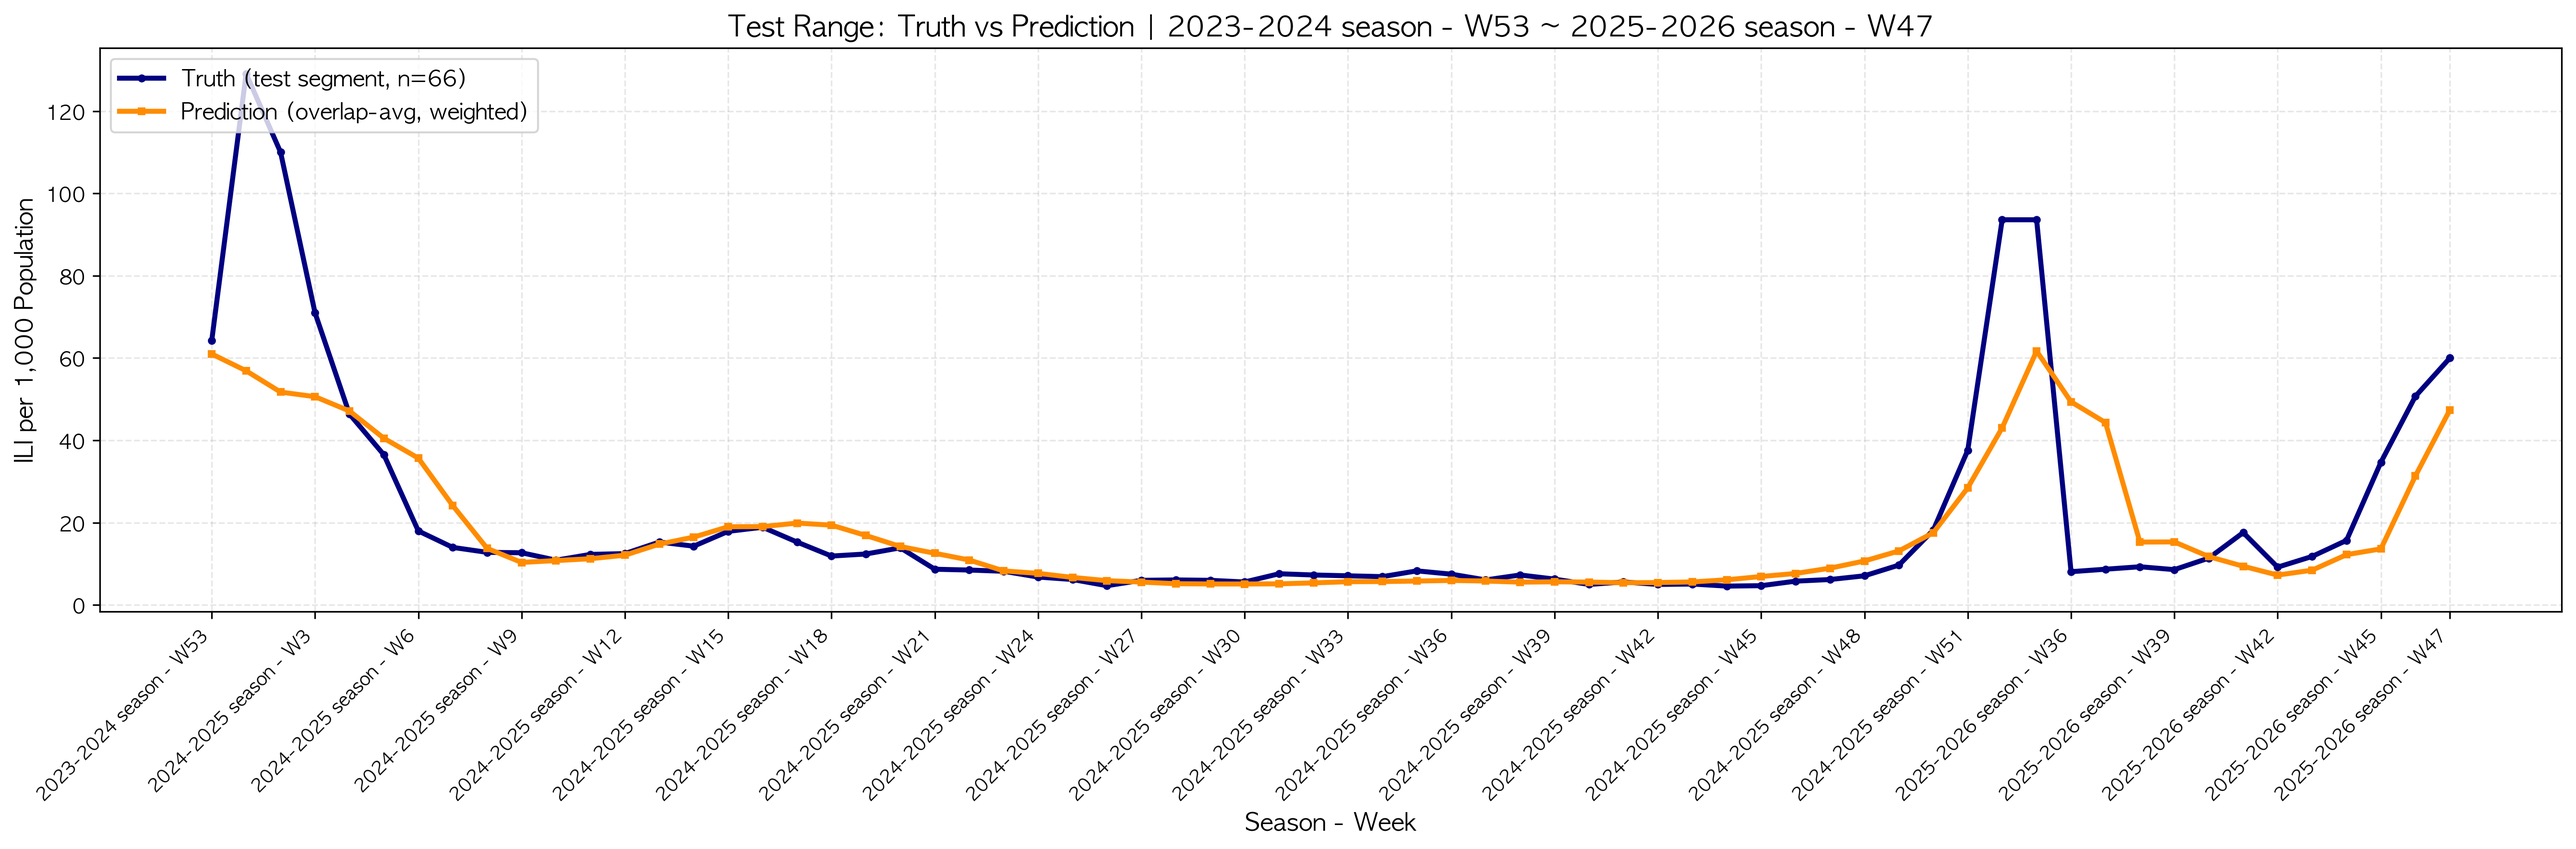
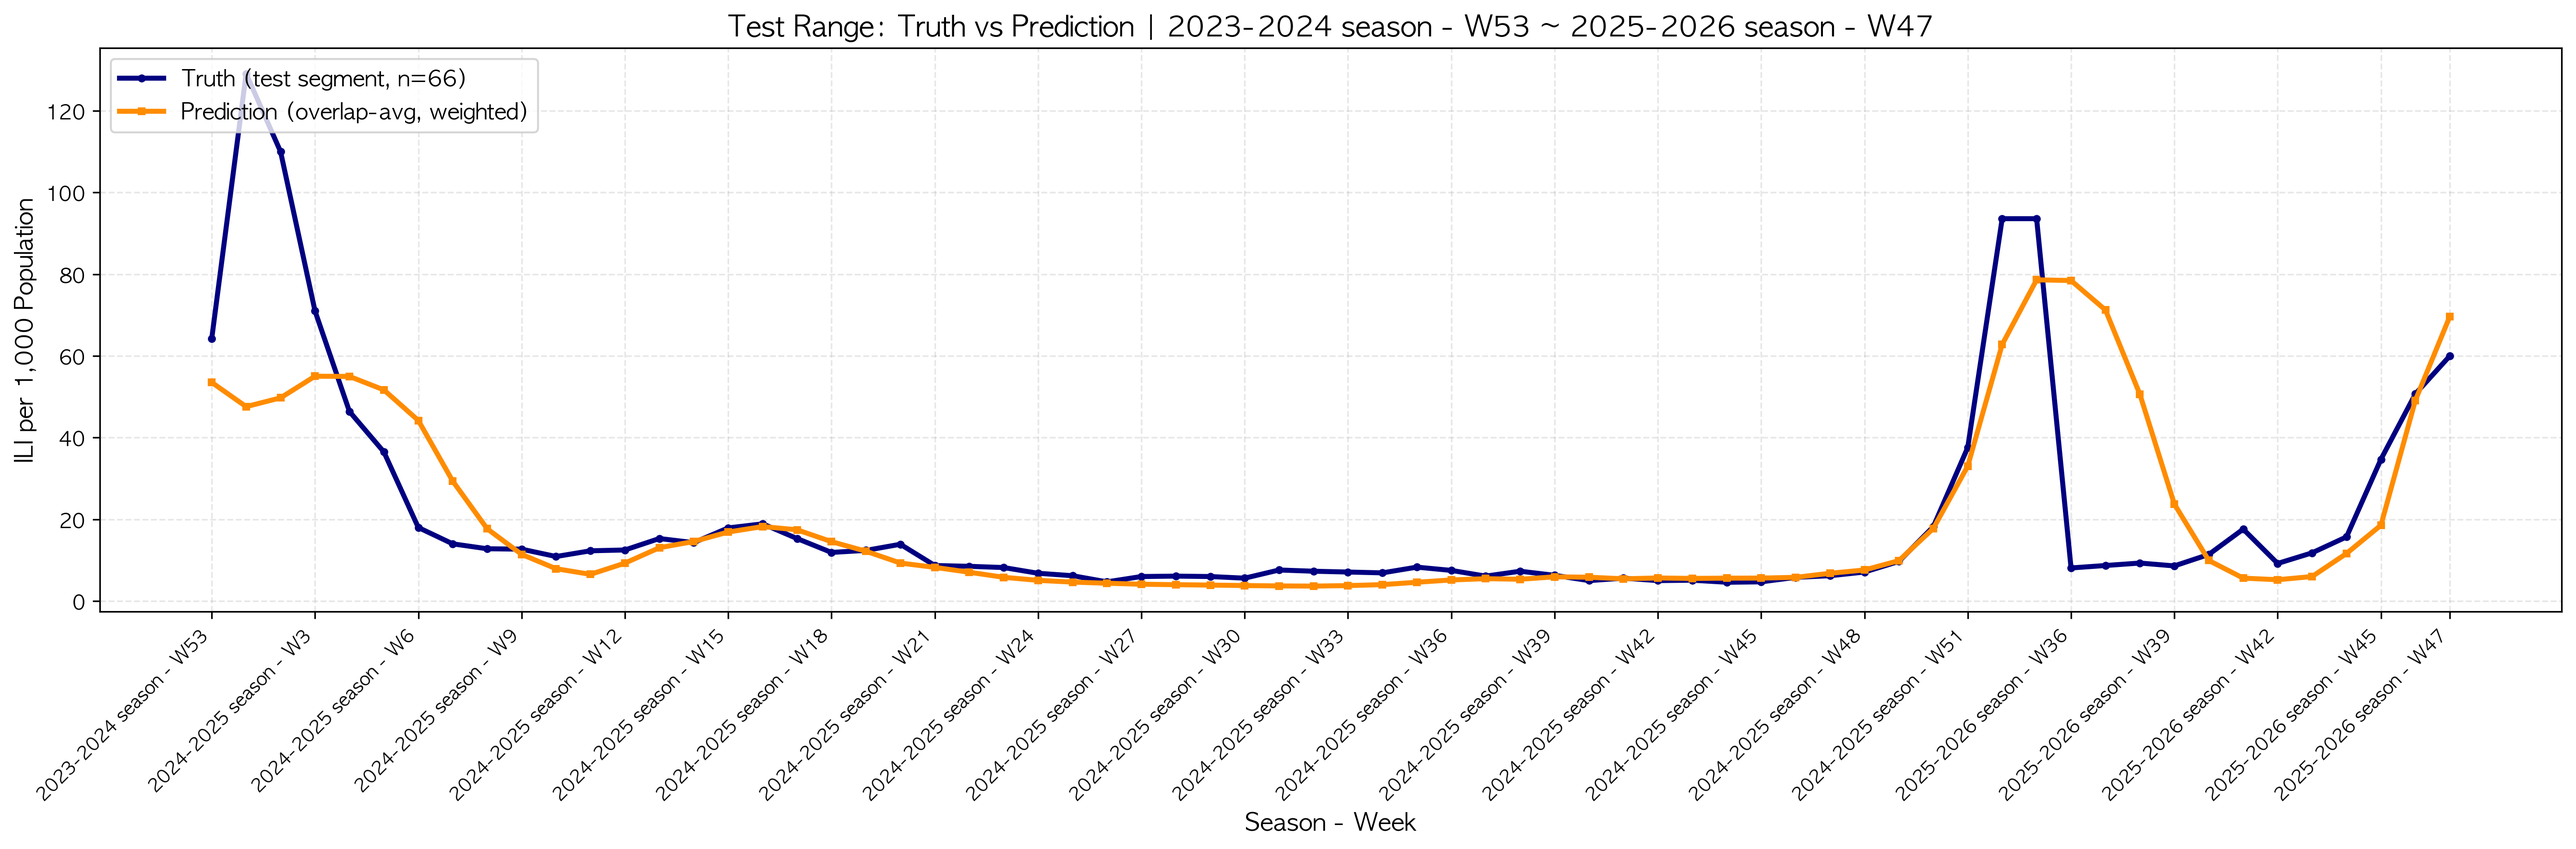
recent model

diff --git a/patchTST.py b/patchTST.py
@@ -675,6 +675,17 @@ def load_and_prepare(df: pd.DataFrame, use_exog: str = "auto") -> Tuple[np.ndarr
     X = df[feat_names].to_numpy(dtype=float)
     y = df["ili"].to_numpy(dtype=float)
     
+    # 🔍 vaccine_rate 진단
+    if 'vaccine_rate' in feat_names:
+        vax_idx = feat_names.index('vaccine_rate')
+        vax_data = X[:, vax_idx]
+        print(f"\n🔬 vaccine_rate 데이터 분석:")
+        print(f"   - 범위: [{vax_data.min():.4f}, {vax_data.max():.4f}]")
+        print(f"   - 평균: {vax_data.mean():.4f}, 표준편차: {vax_data.std():.4f}")
+        print(f"   - 변동계수(CV): {vax_data.std()/vax_data.mean():.4f}")
+        print(f"   - 0인 값: {(vax_data == 0).sum()}개 / {len(vax_data)}개")
+        print(f"   - 상관계수 (vaccine_rate vs ili): {np.corrcoef(vax_data, y)[0,1]:.4f}")
+    
     print(f"\n✅ 최종 데이터 준비 완료:")
     print(f"   - X shape: {X.shape}")
     print(f"   - y shape: {y.shape}")
@@ -956,6 +967,15 @@ def train_and_eval(X: np.ndarray, y: np.ndarray, labels: list, feat_names: list)
     X_tr, X_va, X_te = X[s0:e0], X[s1:e1], X[s2:e2]
     y_tr, y_va, y_te = y[s0:e0], y[s1:e1], y[s2:e2]
     lab_tr, lab_va, lab_te = labels[s0:e0], labels[s1:e1], labels[s2:e2]
+
+    # ==== 데이터 분할 진단 ====
+    print(f"\n📊 데이터 분할 정보:")
+    print(f"   Train: {lab_tr[0]} ~ {lab_tr[-1]} ({len(y_tr)}개)")
+    print(f"   Val:   {lab_va[0]} ~ {lab_va[-1]} ({len(y_va)}개)")
+    print(f"   Test:  {lab_te[0]} ~ {lab_te[-1]} ({len(y_te)}개)")
+    print(f"   Train y 범위: [{y_tr.min():.2f}, {y_tr.max():.2f}], 평균: {y_tr.mean():.2f}")
+    print(f"   Val   y 범위: [{y_va.min():.2f}, {y_va.max():.2f}], 평균: {y_va.mean():.2f}")
+    print(f"   Test  y 범위: [{y_te.min():.2f}, {y_te.max():.2f}], 평균: {y_te.mean():.2f}")
 
     # ==== Scaling ====
     # Target scaler
@@ -1280,15 +1300,14 @@ if __name__ == "__main__":
     # =========================
 # Feature Importance utils
 # =========================
-def _eval_mae_on_split(model, X_split_sc, y_split_sc, scaler_y, feat_names,
+def _eval_mse_on_split(model, X_split_sc, y_split_sc, scaler_y, feat_names,
                        batch_size=BATCH_SIZE):
     """
-    Feature Importance용 MAE 계산
-    → 반드시 현재 model.head 출력 차원(pred_len)을 기준으로 계산
+    Feature Importance용 MSE 계산 (Perturbation-Based Method)
     """
     model.eval()
 
-    # 🔑 실제 모델의 pred_len을 사용
+    # 실제 모델의 pred_len을 사용
     pred_len = model.head[-1].out_features
     seq_len  = SEQ_LEN
     patch_len = PATCH_LEN
@@ -1303,7 +1322,7 @@ def _eval_mae_on_split(model, X_split_sc, y_split_sc, scaler_y, feat_names,
     )
     dl = DataLoader(ds, batch_size=batch_size, shuffle=False)
 
-    mae_sum, n = 0.0, 0
+    mse_sum, n = 0.0, 0
     with torch.no_grad():
         for Xb, yb, _ in dl:
             Xb = Xb.to(DEVICE)
@@ -1311,14 +1330,24 @@ def _eval_mae_on_split(model, X_split_sc, y_split_sc, scaler_y, feat_names,
 
             pred = model(Xb)  # (B, H_model)
 
-            # 🔒 pred / yb shape mismatch 방지
+            # pred / yb shape mismatch 방지
             H = pred.shape[1]
             yb = yb[:, :H]
 
-            mae_sum += batch_mae_in_original_units(pred, yb, scaler_y) * yb.size(0)
+            # 원래 스케일로 변환
+            pred_np = pred.cpu().numpy()
+            yb_np = yb.cpu().numpy()
+            
+            # scaler_y가 2D 입력을 요구하면 reshape
+            pred_orig = scaler_y.inverse_transform(pred_np.reshape(-1, 1)).flatten()[:H]
+            yb_orig = scaler_y.inverse_transform(yb_np.reshape(-1, 1)).flatten()[:H]
+            
+            # MSE 계산
+            mse = np.mean((pred_orig - yb_orig) ** 2)
+            mse_sum += mse * yb.size(0)
             n += yb.size(0)
 
-    return float(mae_sum / max(1, n))
+    return float(mse_sum / max(1, n))
 
 
 def compute_feature_importance(model, 
@@ -1327,13 +1356,16 @@ def compute_feature_importance(model,
                                scaler_y=None, feat_names=None, 
                                random_state=42):
     """
-    퍼뮤테이션(열 섞기) 중요도와 평균 대체(그 특징을 평균으로 고정) 중요도를 계산.
-    반환: 중요도 DataFrame (ΔMAE가 클수록 중요)
+    Perturbation-Based Feature Importance 계산
+    
+    방법:
+    1. 각 변수를 마스킹(평균값으로 대체)
+    2. MSE 증가량 측정: Importance(i) = MSE_masked(i) - MSE_original
+    3. 중요도 정규화
     
     Note: 'ili'는 타겟 변수이므로 Feature Importance 계산에서 제외됩니다.
     """
     assert scaler_y is not None and feat_names is not None
-    rng = np.random.RandomState(random_state)
 
     # --- 'ili' 제외: 타겟 변수는 feature importance 계산에서 제외 ---
     feat_indices = [i for i, name in enumerate(feat_names) if name != 'ili']
@@ -1343,51 +1375,61 @@ def compute_feature_importance(model,
         print(f"[FI] 'ili' 특징 제외됨 (타겟 변수)")
         print(f"[FI] Feature Importance 계산 대상: {len(filtered_feat_names)}개 특징")
 
-    # --- 기준선(baseline MAE) ---
-    baseline_val = _eval_mae_on_split(model, X_va_sc, y_va_sc, scaler_y, feat_names)
-    print(f"[FI] Baseline Val MAE: {baseline_val:.6f}")
+    # --- Step 1: Baseline MSE (원본 데이터) ---
+    print(f"[FI] Computing Baseline MSE...")
+    mse_original_val = _eval_mse_on_split(model, X_va_sc, y_va_sc, scaler_y, feat_names)
+    print(f"[FI] Baseline Val MSE: {mse_original_val:.6f}")
 
-    baseline_tst = None
+    mse_original_tst = None
     if X_te_sc is not None and y_te_sc is not None:
-        baseline_tst = _eval_mae_on_split(model, X_te_sc, y_te_sc, scaler_y, feat_names)
-        print(f"[FI] Baseline Test MAE: {baseline_tst:.6f}")
+        mse_original_tst = _eval_mse_on_split(model, X_te_sc, y_te_sc, scaler_y, feat_names)
+        print(f"[FI] Baseline Test MSE: {mse_original_tst:.6f}")
 
-    perm_deltas_val, mean_deltas_val = [], []
-    perm_deltas_tst, mean_deltas_tst = [], []
+    # --- Step 2: 각 변수를 마스킹하여 MSE 증가량 측정 ---
+    print(f"[FI] Computing Perturbation Importance...")
+    importance_val = []
+    importance_tst = []
 
-    # 'ili'를 제외한 특징들에 대해서만 계산
     for j in feat_indices:
         name = feat_names[j]
         
-        # ① 퍼뮤테이션(열 섞기)
-        Xp = X_va_sc.copy()
-        col = Xp[:, j].copy()
-        rng.shuffle(col)
-        Xp[:, j] = col
-        mae_perm_val = _eval_mae_on_split(model, Xp, y_va_sc, scaler_y, feat_names)
-        perm_deltas_val.append(mae_perm_val - baseline_val)
+        # Validation set: 해당 피처를 평균값으로 마스킹
+        X_masked_val = X_va_sc.copy()
+        X_masked_val[:, j] = X_va_sc[:, j].mean()
+        
+        mse_masked_val = _eval_mse_on_split(model, X_masked_val, y_va_sc, scaler_y, feat_names)
+        delta_mse_val = mse_masked_val - mse_original_val
+        importance_val.append(delta_mse_val)
+        
+        print(f"  - {name}: ΔMSE={delta_mse_val:.6f}")
 
-        # ② 평균 대체(특징 제거 효과)
-        Xz = X_va_sc.copy()
-        Xz[:, j] = X_va_sc[:, j].mean()
-        mae_mean_val = _eval_mae_on_split(model, Xz, y_va_sc, scaler_y, feat_names)
-        mean_deltas_val.append(mae_mean_val - baseline_val)
-
+        # Test set (optional)
         if X_te_sc is not None and y_te_sc is not None:
-            Xp_te = X_te_sc.copy()
-            col_te = Xp_te[:, j].copy()
-            rng.shuffle(col_te)
-            Xp_te[:, j] = col_te
-            mae_perm_tst = _eval_mae_on_split(model, Xp_te, y_te_sc, scaler_y, feat_names)
-            perm_deltas_tst.append(mae_perm_tst - baseline_tst)
+            X_masked_tst = X_te_sc.copy()
+            X_masked_tst[:, j] = X_te_sc[:, j].mean()
+            
+            mse_masked_tst = _eval_mse_on_split(model, X_masked_tst, y_te_sc, scaler_y, feat_names)
+            delta_mse_tst = mse_masked_tst - mse_original_tst
+            importance_tst.append(delta_mse_tst)
 
-            Xz_te = X_te_sc.copy()
-            Xz_te[:, j] = X_te_sc[:, j].mean()
-            mae_mean_tst = _eval_mae_on_split(model, Xz_te, y_te_sc, scaler_y, feat_names)
-            mean_deltas_tst.append(mae_mean_tst - baseline_tst)
+    # --- Step 3: Normalization ---
+    importance_val = np.array(importance_val)
+    sum_importance_val = np.abs(importance_val).sum()
+    if sum_importance_val > 0:
+        importance_norm_val = importance_val / sum_importance_val
+    else:
+        importance_norm_val = np.zeros_like(importance_val)
 
-    # DataFrame 생성
-    # 내부명 → 한글명 매핑 (column_mapping의 value→key 역전)
+    importance_norm_tst = None
+    if importance_tst:
+        importance_tst = np.array(importance_tst)
+        sum_importance_tst = np.abs(importance_tst).sum()
+        if sum_importance_tst > 0:
+            importance_norm_tst = importance_tst / sum_importance_tst
+        else:
+            importance_norm_tst = np.zeros_like(importance_tst)
+
+    # --- DataFrame 생성 ---
     column_mapping = {
         '연도': 'year',
         '주차': 'week',
@@ -1398,28 +1440,29 @@ def compute_feature_importance(model,
         '응급실 인플루엔자 환자': 'emergency_patients',
         '아형': 'subtype'
     }
-    # 역매핑: 내부명 → 한글명
     inv_colmap = {v: k for k, v in column_mapping.items()}
 
-    # feature명 + 한글명 표시 ('ili' 제외된 특징들만)
     feature_disp = [f"{f} ({inv_colmap[f]})" if f in inv_colmap else f for f in filtered_feat_names]
 
     df_fi = pd.DataFrame({
         "feature": feature_disp,
-        "perm_delta_val": perm_deltas_val,
-        "mean_delta_val": mean_deltas_val,
+        "importance_raw_val": importance_val,
+        "importance_norm_val": importance_norm_val,
     })
-    if X_te_sc is not None and y_te_sc is not None:
-        df_fi["perm_delta_tst"] = perm_deltas_tst
-        df_fi["mean_delta_tst"] = mean_deltas_tst
+    
+    if importance_norm_tst is not None:
+        df_fi["importance_raw_tst"] = importance_tst
+        df_fi["importance_norm_tst"] = importance_norm_tst
 
-    # 평균 델타 기준 내림차순 정렬
-    df_fi = df_fi.sort_values("mean_delta_val", ascending=False).reset_index(drop=True)
+    # Raw importance 기준 내림차순 정렬
+    df_fi = df_fi.sort_values("importance_raw_val", ascending=False).reset_index(drop=True)
+    
+    print(f"\n[FI] Feature Importance Calculation Complete!")
     return df_fi
 
 def plot_feature_importance(fi_df, out_csv=None, out_png=None):
     """
-    Feature Importance를 막대그래프로 시각화
+    Perturbation-Based Feature Importance를 막대그래프로 시각화
     """
     if fi_df is None or len(fi_df) == 0:
         print("No feature importance data to plot.")
@@ -1432,19 +1475,20 @@ def plot_feature_importance(fi_df, out_csv=None, out_png=None):
         fi_df.to_csv(out_csv, index=False)
         print(f"Feature Importance saved to {out_csv}")
 
-    # 시각화
+    # 시각화 (2개 서브플롯: Raw & Normalized)
     fig, axes = plt.subplots(1, 2, figsize=(14, 5))
 
-    # ① Permutation Δ (Val)
-    axes[0].barh(fi_df["feature"], fi_df["perm_delta_val"], color="steelblue")
-    axes[0].set_xlabel("ΔMAE (Permutation, Val)")
-    axes[0].set_title("Permutation Feature Importance (Val)")
+    # ① Raw Importance (ΔMSE)
+    axes[0].barh(fi_df["feature"], fi_df["importance_raw_val"], color="steelblue")
+    axes[0].set_xlabel("ΔMSE (MSE_masked - MSE_original)")
+    axes[0].set_title("Perturbation-Based Importance (Raw)")
     axes[0].invert_yaxis()
+    axes[0].axvline(x=0, color='red', linestyle='--', linewidth=0.8)
 
-    # ② Mean Replacement Δ (Val)
-    axes[1].barh(fi_df["feature"], fi_df["mean_delta_val"], color="coral")
-    axes[1].set_xlabel("ΔMAE (Mean Replacement, Val)")
-    axes[1].set_title("Mean Replacement Feature Importance (Val)")
+    # ② Normalized Importance
+    axes[1].barh(fi_df["feature"], fi_df["importance_norm_val"], color="coral")
+    axes[1].set_xlabel("Normalized Importance")
+    axes[1].set_title("Perturbation-Based Importance (Normalized)")
     axes[1].invert_yaxis()
 
     plt.tight_layout()

diff --git a/patchTST_simple.py b/patchTST_simple.py
@@ -117,7 +117,7 @@ class Config:
     
     # ===== Optuna 최적화 설정 =====
     USE_OPTUNA = True       # Optuna 최적화 실행
-    N_TRIALS = 50          # Optuna 최적화 시도 횟수
+    N_TRIALS = 100          # Optuna 최적화 시도 횟수
     OPTUNA_TIMEOUT = None   # 최적화 시간 제한 (초), None이면 무제한
     
     # Optuna 최적화 범위 (USE_OPTUNA=True일 때 사용)
@@ -137,7 +137,7 @@ class Config:
     
     # ===== 모델 하이퍼파라미터 (기본값) =====
     # Optuna를 사용하지 않을 때 또는 최적화 후 고정값으로 사용
-    EPOCHS = 100
+    EPOCHS = 200
     BATCH_SIZE = 64
     SEQ_LEN = 12            # 입력 시퀀스 길이 (과거 몇 주)
     PRED_LEN = 3            # 예측 길이 (미래 몇 주)
@@ -617,29 +617,13 @@ def load_and_prepare(df: pd.DataFrame, use_exog: str = "auto") -> Tuple[np.ndarr
     has_resp = "respiratory_index" in df.columns or "hospitalization" in df.columns
 
 
-    # 모든 column_mapping 내부명을 feature로 강제 포함
-    column_mapping = {
-        '연도': 'year',
-        '주차': 'week',
-        '의사환자 분율': 'ili',
-        '예방접종률': 'vaccine_rate',
-        '입원환자 수': 'hospitalization',
-        '인플루엔자 검출률': 'detection_rate',
-        '응급실 인플루엔자 환자': 'emergency_patients',
-        '아형': 'subtype'
-    }
-    # week는 week_sin/week_cos로 대체, 나머지는 그대로
-    chosen = []
-    for v in column_mapping.values():
-        if v == "week":
-            chosen += ["week_sin", "week_cos"]
-        else:
-            chosen.append(v)
-    # 중복 제거 및 순서 보존
-    chosen = [x for i, x in enumerate(chosen) if x not in chosen[:i]]
-
-    # 숫자화 & 보간
-    for c in chosen:
+    # 🎯 사용할 feature만 선택: detection_rate, week_sin, ili
+    selected_features = ['ili', 'detection_rate', 'week_sin']
+    
+    print(f"\n🎯 선택된 Features: {selected_features}")
+    
+    # 선택된 컬럼들만 숫자화 & 보간
+    for c in selected_features:
         if c in df.columns:
             df[c] = pd.to_numeric(df[c], errors="coerce")
             if df[c].isna().any():
@@ -663,14 +647,11 @@ def load_and_prepare(df: pd.DataFrame, use_exog: str = "auto") -> Tuple[np.ndarr
     else:
         labels = [f"idx_{i}" for i in range(len(df))]
 
-    # X, y 구성
-    feat_names = chosen[:]
-    if INCLUDE_SEASONAL_FEATS and {"week_sin", "week_cos"}.issubset(df.columns):
-        feat_names += ["week_sin", "week_cos"]
+    # X, y 구성 - 선택된 features만 사용
+    feat_names = selected_features[:]
 
     # 선택된 입력 피처 로그
-    print(f"\n[Data] Exogenous detected -> vaccine_rate: {has_vax} | respiratory/hospitalization: {has_resp} | climate_feats: {climate_feats}")
-    print(f"[Data] Selected feature columns (order) -> {feat_names}")
+    print(f"\n[Data] Selected feature columns (order) -> {feat_names}")
 
     X = df[feat_names].to_numpy(dtype=float)
     y = df["ili"].to_numpy(dtype=float)
@@ -956,6 +937,15 @@ def train_and_eval(X: np.ndarray, y: np.ndarray, labels: list, feat_names: list)
     X_tr, X_va, X_te = X[s0:e0], X[s1:e1], X[s2:e2]
     y_tr, y_va, y_te = y[s0:e0], y[s1:e1], y[s2:e2]
     lab_tr, lab_va, lab_te = labels[s0:e0], labels[s1:e1], labels[s2:e2]
+
+    # ==== 데이터 분할 진단 ====
+    print(f"\n📊 데이터 분할 정보:")
+    print(f"   Train: {lab_tr[0]} ~ {lab_tr[-1]} ({len(y_tr)}개)")
+    print(f"   Val:   {lab_va[0]} ~ {lab_va[-1]} ({len(y_va)}개)")
+    print(f"   Test:  {lab_te[0]} ~ {lab_te[-1]} ({len(y_te)}개)")
+    print(f"   Train y 범위: [{y_tr.min():.2f}, {y_tr.max():.2f}], 평균: {y_tr.mean():.2f}")
+    print(f"   Val   y 범위: [{y_va.min():.2f}, {y_va.max():.2f}], 평균: {y_va.mean():.2f}")
+    print(f"   Test  y 범위: [{y_te.min():.2f}, {y_te.max():.2f}], 평균: {y_te.mean():.2f}")
 
     # ==== Scaling ====
     # Target scaler
@@ -1459,14 +1449,14 @@ def plot_feature_importance(fi_df, out_csv=None, out_png=None):
     fig, axes = plt.subplots(1, 2, figsize=(14, 5))
 
     # ① Raw Importance (ΔMSE)
-    axes[0].barh(df_fi["feature"], df_fi["importance_raw_val"], color="steelblue")
+    axes[0].barh(fi_df["feature"], fi_df["importance_raw_val"], color="steelblue")
     axes[0].set_xlabel("ΔMSE (MSE_masked - MSE_original)")
     axes[0].set_title("Perturbation-Based Importance (Raw)")
     axes[0].invert_yaxis()
     axes[0].axvline(x=0, color='red', linestyle='--', linewidth=0.8)
 
     # ② Normalized Importance
-    axes[1].barh(df_fi["feature"], df_fi["importance_norm_val"], color="coral")
+    axes[1].barh(fi_df["feature"], fi_df["importance_norm_val"], color="coral")
     axes[1].set_xlabel("Normalized Importance")
     axes[1].set_title("Perturbation-Based Importance (Normalized)")
     axes[1].invert_yaxis()
